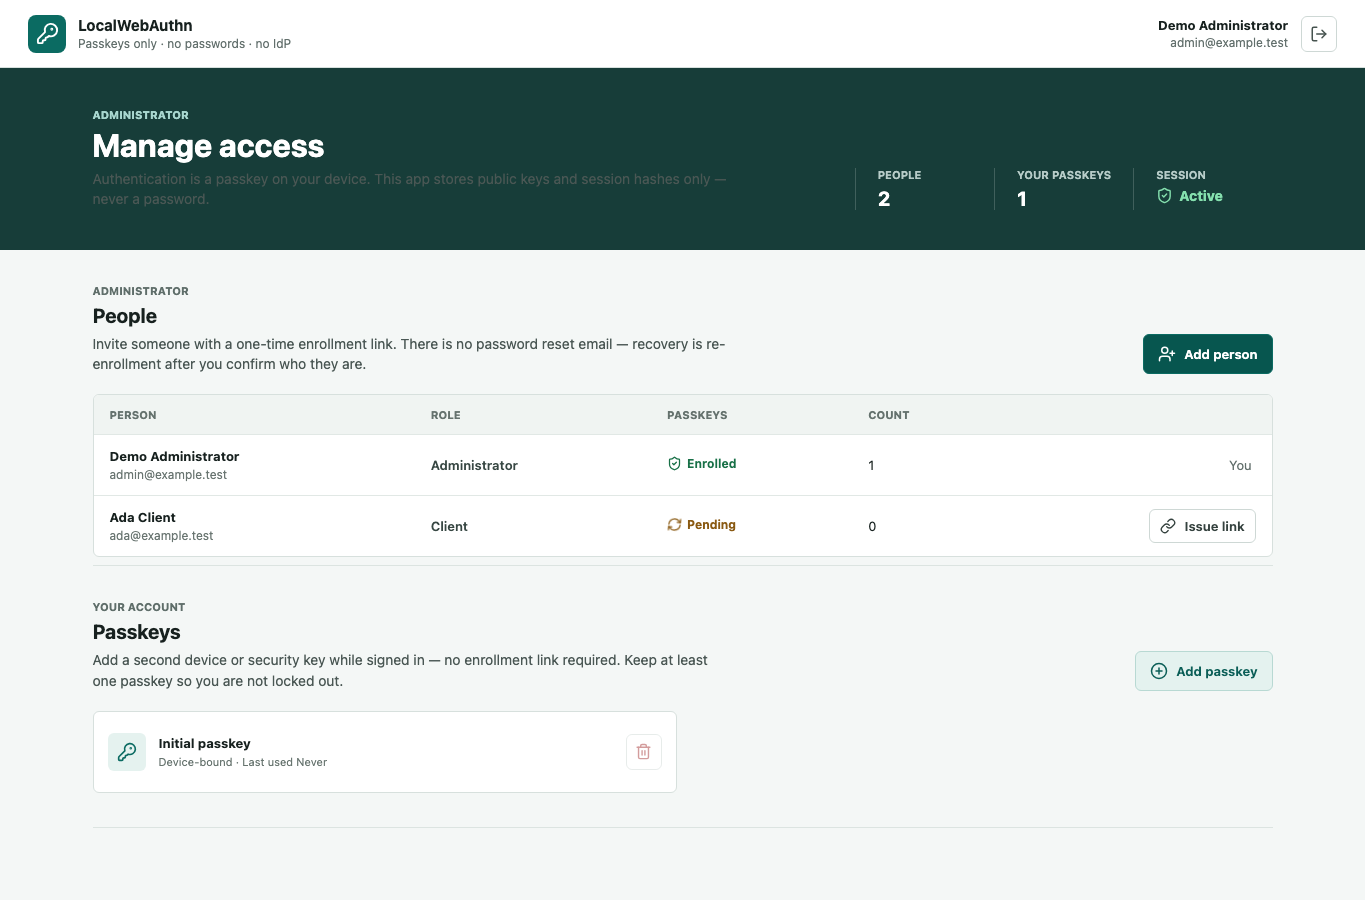
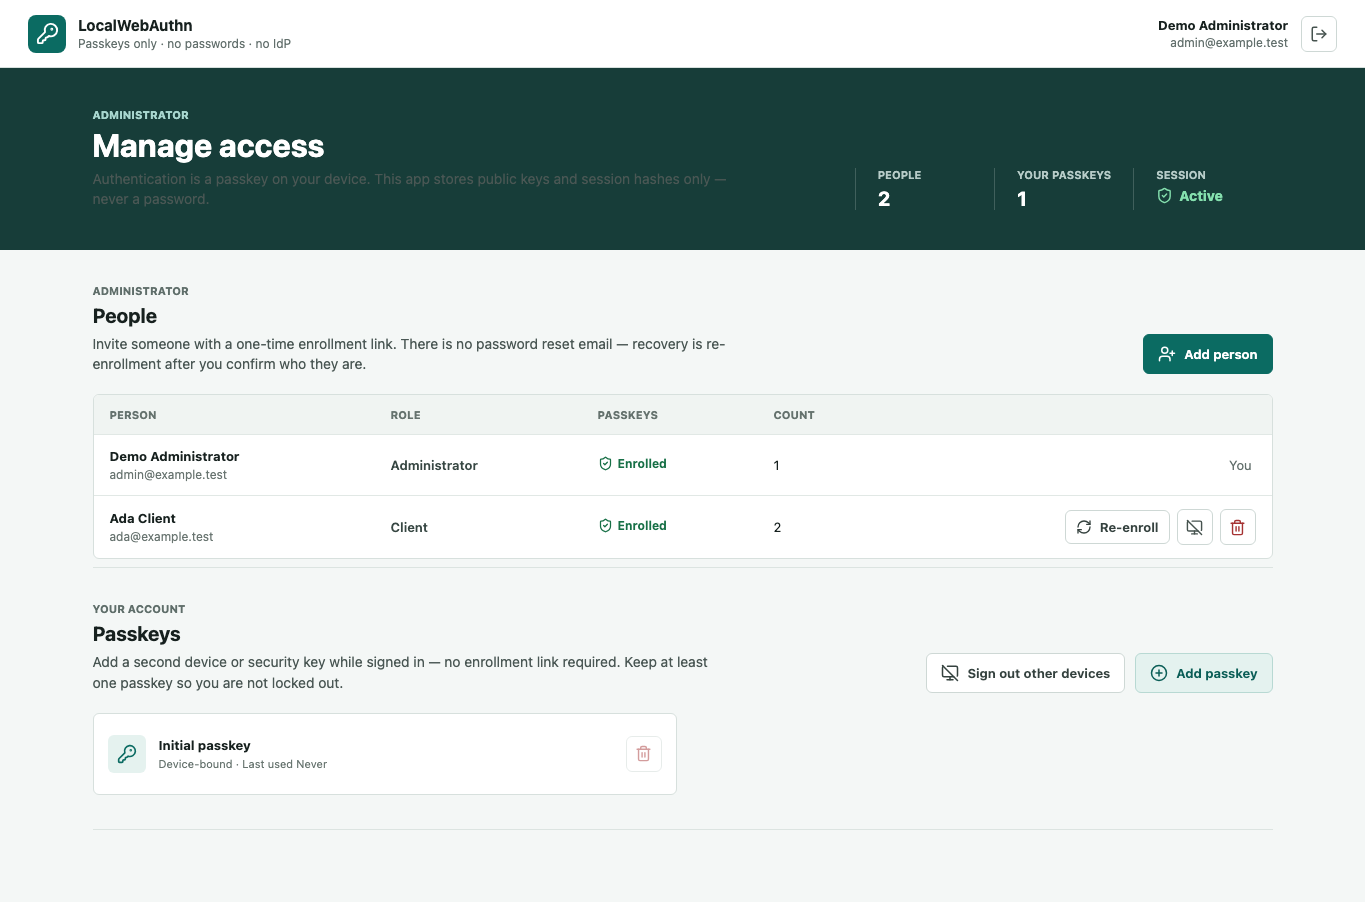
Demo: session sign-out actions and regenerated screenshots
- Admin per-person Sign out everywhere (revokeUserSessions), contrasted
  with Re-enroll: sessions end, passkeys stay valid
- Self-service Sign out other devices using exceptSessionToken
- API tests for both routes; e2e exercises admin revoke + re-login and
  the self-service path; docs/images regenerated from the updated UI

diff --git a/examples/demo/src/client.ts b/examples/demo/src/client.ts
@@ -8,6 +8,7 @@ import {
   Link,
   LockKeyhole,
   LogOut,
+  MonitorOff,
   RefreshCw,
   ShieldCheck,
   Trash2,
@@ -223,6 +224,9 @@ function clientRows(): string {
                          ${iconMarkup('refresh-cw', 16)}
                          Re-enroll
                        </button>
+                       <button class="icon-button sign-out-client" data-client-id="${escapeHtml(client.id)}" data-client-name="${escapeHtml(client.displayName)}" title="End every session; passkeys stay valid" aria-label="Sign out ${escapeHtml(client.displayName)} everywhere" type="button">
+                         ${iconMarkup('monitor-off', 17)}
+                       </button>
                        <button class="icon-button danger revoke-client" data-client-id="${escapeHtml(client.id)}" title="Revoke all passkeys without issuing a new link" aria-label="Revoke authentication for ${escapeHtml(client.displayName)}" type="button">
                          ${iconMarkup('trash-2', 17)}
                        </button>`
@@ -284,10 +288,16 @@ function passkeysSection(): string {
           <h2 id="passkeys-title">Passkeys</h2>
           <p class="section-help">Add a second device or security key while signed in — no enrollment link required. Keep at least one passkey so you are not locked out.</p>
         </div>
-        <button class="button secondary" id="add-passkey" type="button" ${state.busy ? 'disabled' : ''}>
-          ${iconMarkup('circle-plus')}
-          Add passkey
-        </button>
+        <div class="heading-actions">
+          <button class="button quiet" id="sign-out-others" type="button" ${state.busy ? 'disabled' : ''} title="End your sessions on every other device; this one stays signed in">
+            ${iconMarkup('monitor-off')}
+            Sign out other devices
+          </button>
+          <button class="button secondary" id="add-passkey" type="button" ${state.busy ? 'disabled' : ''}>
+            ${iconMarkup('circle-plus')}
+            Add passkey
+          </button>
+        </div>
       </div>
       <div class="passkey-grid">
         ${passkeys
@@ -406,6 +416,7 @@ function render(): void {
       Link,
       LockKeyhole,
       LogOut,
+      MonitorOff,
       RefreshCw,
       ShieldCheck,
       Trash2,
@@ -469,6 +480,17 @@ function bindEvents(): void {
       await auth.registerPasskey('Additional passkey');
       await refreshSession();
       state.notice = 'Additional passkey registered.';
+    });
+  });
+  document.querySelector('#sign-out-others')?.addEventListener('click', () => {
+    void perform(async () => {
+      const result = await request<{ revokedSessions: number }>('/api/session/revoke-others', {
+        method: 'POST',
+      });
+      state.notice =
+        result.revokedSessions === 0
+          ? 'No other sessions to sign out.'
+          : `Signed out ${String(result.revokedSessions)} other ${result.revokedSessions === 1 ? 'session' : 'sessions'}. Your passkeys are unchanged.`;
     });
   });
 
@@ -544,6 +566,19 @@ function bindEvents(): void {
           kind: 'recovery',
         };
         state.notice = 'Passkeys revoked and recovery enrollment issued.';
+      });
+    });
+  }
+  for (const button of document.querySelectorAll<HTMLButtonElement>('.sign-out-client')) {
+    button.addEventListener('click', () => {
+      const name = button.dataset.clientName ?? 'this person';
+      void perform(async () => {
+        const result = await request<{ revokedSessions: number }>(
+          `/api/clients/${encodeURIComponent(button.dataset.clientId ?? '')}/revoke-sessions`,
+          { method: 'POST' },
+        );
+        await refreshSession();
+        state.notice = `Ended ${String(result.revokedSessions)} ${result.revokedSessions === 1 ? 'session' : 'sessions'} for ${name}. Passkeys remain valid — no re-enrollment needed.`;
       });
     });
   }

diff --git a/examples/demo/tests/application.test.ts b/examples/demo/tests/application.test.ts
@@ -61,6 +61,24 @@ async function authenticatedClient(
   };
 }
 
+/** A second live session for an existing client (another device). */
+async function additionalSession(database: DemoDatabase, userId: string): Promise<string> {
+  const sessionToken = createOpaqueToken();
+  const now = Date.now();
+  const credential = database
+    .prepare(`SELECT id FROM localwebauthn_credentials WHERE user_id = ?`)
+    .get(userId) as { id: string };
+  database
+    .prepare(
+      `INSERT INTO localwebauthn_sessions(
+         id_hash, user_id, credential_id,
+         authenticated_at, expires_at, last_seen_at
+       ) VALUES (?, ?, ?, ?, ?, ?)`,
+    )
+    .run(await sha256(sessionToken), userId, credential.id, now, now + 60_000, now);
+  return sessionToken;
+}
+
 afterEach(() => {
   for (const database of databases.splice(0)) {
     database.close();
@@ -175,6 +193,71 @@ describe('LocalWebAuthn demo application', () => {
       }),
     });
     expect(response.status).toBe(403);
+  });
+
+  it('lets an administrator end sessions while passkeys stay valid', async () => {
+    const { app, database } = setup();
+    const administrator = await authenticatedClient(database, 'administrator');
+    const subject = await authenticatedClient(database, 'client');
+    const headers = { Cookie: administrator.cookie, Origin: publicOrigin };
+
+    // Administrator-only, like the other client actions.
+    const forbidden = await app.request(`/api/clients/${administrator.id}/revoke-sessions`, {
+      method: 'POST',
+      headers: { Cookie: subject.cookie, Origin: publicOrigin },
+    });
+    expect(forbidden.status).toBe(403);
+
+    const missing = await app.request('/api/clients/unknown-client/revoke-sessions', {
+      method: 'POST',
+      headers,
+    });
+    expect(missing.status).toBe(404);
+
+    const response = await app.request(`/api/clients/${subject.id}/revoke-sessions`, {
+      method: 'POST',
+      headers,
+    });
+    expect(response.status).toBe(200);
+    await expect(response.json()).resolves.toMatchObject({
+      revokedSessions: 1,
+      client: { passkeyCount: 1 },
+    });
+
+    // The subject's session is dead, but their passkey survived.
+    const oldSession = await app.request('/api/session', {
+      headers: { Cookie: subject.cookie, Origin: publicOrigin },
+    });
+    expect(oldSession.status).toBe(401);
+  });
+
+  it('signs out other sessions while keeping the caller signed in', async () => {
+    const { app, database } = setup();
+    const subject = await authenticatedClient(database, 'client');
+    const otherToken = await additionalSession(database, subject.id);
+
+    const unauthenticated = await app.request('/api/session/revoke-others', {
+      method: 'POST',
+      headers: { Origin: publicOrigin },
+    });
+    expect(unauthenticated.status).toBe(401);
+
+    const response = await app.request('/api/session/revoke-others', {
+      method: 'POST',
+      headers: { Cookie: subject.cookie, Origin: publicOrigin },
+    });
+    expect(response.status).toBe(200);
+    await expect(response.json()).resolves.toEqual({ revokedSessions: 1 });
+
+    // The caller's own session survives; the other device is signed out.
+    const own = await app.request('/api/session', {
+      headers: { Cookie: subject.cookie, Origin: publicOrigin },
+    });
+    expect(own.status).toBe(200);
+    const other = await app.request('/api/session', {
+      headers: { Cookie: `localwebauthn_demo_session=${otherToken}`, Origin: publicOrigin },
+    });
+    expect(other.status).toBe(401);
   });
 
   it('re-enrolls by revoking then issuing a recovery link', async () => {

diff --git a/examples/demo/e2e/lifecycle.spec.ts b/examples/demo/e2e/lifecycle.spec.ts
@@ -79,7 +79,6 @@ test('runs the bootstrap, client enrollment, and additional-passkey lifecycle', 
   const row = page.getByRole('row').filter({ hasText: 'ada@example.test' });
   await expect(row.getByText('Pending')).toBeVisible();
   await page.getByRole('button', { name: 'Dismiss enrollment URL' }).click();
-  await capture(page, 'demo-administration.png');
 
   const clientContext = await browser.newContext();
   const clientPage = await clientContext.newPage();
@@ -101,7 +100,7 @@ test('runs the bootstrap, client enrollment, and additional-passkey lifecycle', 
   await clientPage.setViewportSize({ width: 390, height: 844 });
   await capture(clientPage, 'demo-passkeys-mobile.png');
 
-  await clientPage.getByRole('button', { name: 'Sign out' }).click();
+  await clientPage.getByRole('button', { name: 'Sign out', exact: true }).click();
   await expect(clientPage.getByRole('heading', { name: 'Sign in with a passkey' })).toBeVisible();
   await clientPage.getByRole('button', { name: 'Continue with passkey' }).click();
   await expect(clientPage.getByRole('heading', { name: 'Your access' })).toBeVisible();
@@ -111,11 +110,33 @@ test('runs the bootstrap, client enrollment, and additional-passkey lifecycle', 
     await clientPage.evaluate(() => document.documentElement.scrollWidth <= window.innerWidth),
   ).toBe(true);
 
+  // Self-service sessions-only control. Registering the additional passkey
+  // opened a fresh session and left the previous one live server-side; this
+  // ends that one while the current session is excepted and stays signed in.
+  await clientPage.getByRole('button', { name: 'Sign out other devices' }).click();
+  await expect(
+    clientPage.getByText('Signed out 1 other session. Your passkeys are unchanged.'),
+  ).toBeVisible();
+  await expect(clientPage.getByRole('heading', { name: 'Your access' })).toBeVisible();
+
   // Admin list was loaded before Ada enrolled; reload session to see passkey counts.
   await page.reload();
   await expect(page.getByRole('heading', { name: 'Manage access' })).toBeVisible();
   const adaRow = page.getByRole('row').filter({ hasText: 'ada@example.test' });
   await expect(adaRow.getByText('Enrolled')).toBeVisible();
+  await capture(page, 'demo-administration.png');
+
+  // Sessions-only response first: end Ada's sessions everywhere. Her passkeys
+  // survive and she signs straight back in with the same one — contrast with
+  // the credential-destroying Re-enroll below.
+  await adaRow.getByRole('button', { name: 'Sign out Ada Client everywhere' }).click();
+  await expect(page.getByText(/Ended 1 session for Ada Client/u)).toBeVisible();
+  await expect(adaRow.getByText('Enrolled')).toBeVisible();
+
+  await clientPage.reload();
+  await expect(clientPage.getByRole('heading', { name: 'Sign in with a passkey' })).toBeVisible();
+  await clientPage.getByRole('button', { name: 'Continue with passkey' }).click();
+  await expect(clientPage.getByRole('heading', { name: 'Your access' })).toBeVisible();
 
   // Recovery: revoke-then-issue (documented order) as a single admin action.
   page.once('dialog', (dialog) => dialog.accept());

diff --git a/examples/demo/src/application.ts b/examples/demo/src/application.ts
@@ -10,6 +10,7 @@ import type { DemoClient, DemoDatabase } from './database';
 
 import {
   createDemoAuthentication,
+  currentSessionToken,
   mountAuthenticationRoutes,
   requireAuthentication,
   requireExpectedOrigin,
@@ -260,6 +261,40 @@ export function createDemoApplication(database: DemoDatabase, options: DemoAppli
       });
     },
   );
+
+  /**
+   * Sessions-only response for when a session, not a passkey, is the problem
+   * (stolen laptop, suspected cookie theft). Contrast with Re-enroll: the
+   * person's passkeys stay valid and they simply sign in again.
+   */
+  app.post(
+    '/api/clients/:clientId/revoke-sessions',
+    authenticated,
+    administrator,
+    async (context) => {
+      const client = clientById(database, context.req.param('clientId'));
+      if (!client) {
+        return context.json(
+          { error: 'client_not_found', message: 'The client was not found.' },
+          404,
+        );
+      }
+      const revokedSessions = await authentication.revokeUserSessions(client.id);
+      return context.json({
+        client: await clientPayload(client, authentication),
+        revokedSessions,
+      });
+    },
+  );
+
+  /** Self-service "sign out my other devices": the calling session survives. */
+  app.post('/api/session/revoke-others', authenticated, async (context) => {
+    const revokedSessions = await authentication.revokeUserSessions(
+      context.get('authenticatedUser').id,
+      { exceptSessionToken: currentSessionToken(context) },
+    );
+    return context.json({ revokedSessions });
+  });
 
   app.post('/api/passkeys/:credentialId/revoke', authenticated, async (context) => {
     const userId = context.get('authenticatedUser').id;

diff --git a/examples/demo/src/auth.ts b/examples/demo/src/auth.ts
@@ -130,6 +130,14 @@ export function requireExpectedOrigin(config: DemoAuthConfig): MiddlewareHandler
   };
 }
 
+/**
+ * Raw session token from the request cookie, for routes that act on the
+ * caller's own session (e.g. "sign out my other devices").
+ */
+export function currentSessionToken(context: Context<DemoEnvironment>): string | undefined {
+  return getCookie(context, SESSION_COOKIE);
+}
+
 export function requireAuthentication(
   authentication: DemoAuthentication,
 ): MiddlewareHandler<DemoEnvironment> {

diff --git a/examples/demo/src/styles.css b/examples/demo/src/styles.css
@@ -424,6 +424,13 @@ svg {
   margin-bottom: 20px;
 }
 
+.heading-actions {
+  display: flex;
+  flex-wrap: wrap;
+  align-items: center;
+  gap: 10px;
+}
+
 .section-heading h2,
 .enrollment-callout h2,
 .dialog-heading h2 {
@@ -738,6 +745,11 @@ dialog label {
 
   .section-heading .button {
     width: 100%;
+  }
+
+  .heading-actions {
+    flex-direction: column;
+    align-items: stretch;
   }
 
   .enrollment-link-row {

diff --git a/examples/demo/README.md b/examples/demo/README.md
@@ -21,6 +21,7 @@ How this positions against ceremony libraries, auth frameworks, and IdPs:
 | ---------------------------- | -------------------------------------------------------- |
 | Password signup / login      | Passkey create + continue                                |
 | "Forgot password" email      | Administrator **Re-enroll** (revoke, then one-time link) |
+| "Stolen laptop" panic reset  | **Sign out everywhere** — sessions end, passkeys survive |
 | Auth0 / Clerk / OIDC         | Auth runs in this process; users live in `demo_clients`  |
 | Self-serve open registration | Invitation URLs printed or copied by an administrator    |
 
@@ -46,7 +47,10 @@ http://localhost:4173/enroll#token=...
 2. Use **Add person** to invite someone; copy the enrollment URL.
 3. Open the URL in another browser profile or device; create their passkey.
 4. While signed in, **Add passkey** registers another device (no new link).
-5. **Re-enroll** revokes their passkeys and issues a recovery link (the
+5. **Sign out other devices** (your account) and the per-person **Sign out**
+   action end sessions only — passkeys stay valid and the person just signs in
+   again. Use these when a session, not a credential, is the problem.
+6. **Re-enroll** revokes their passkeys and issues a recovery link (the
    documented recovery order).
 
 `make demo-reset` removes only `examples/demo/.data/localwebauthn-demo.db`.
@@ -60,7 +64,7 @@ Visiting `/` without a passkey shows sign-in help pointing at the enrollment URL
 | ----------------------- | ------------------------------------------------------------- |
 | `src/database.ts`       | App-owned `demo_clients` + package SQLite migration           |
 | `src/auth.ts`           | Complete Hono adapter: origin check, cookies, six auth routes |
-| `src/application.ts`    | Bootstrap, invite, re-enroll, revoke, list passkeys           |
+| `src/application.ts`    | Bootstrap, invite, re-enroll, revoke, session sign-out        |
 | `src/client.ts`         | UI via `LocalWebAuthnBrowser` (no raw WebAuthn calls)         |
 | `e2e/lifecycle.spec.ts` | Playwright + Chromium virtual passkeys                        |
 

diff --git a/docs/DEMO.md b/docs/DEMO.md
@@ -28,8 +28,8 @@ The command resets its isolated database and replaces:
 - `docs/images/demo-passkeys-mobile.png`
 
 Enrollment fragments are consumed before Playwright captures a page. The administration
-screenshot dismisses the newly issued client link first, so committed screenshots contain
-no live bearer tokens.
+screenshot is taken after the issued link is dismissed and the client has enrolled, so
+committed screenshots contain no live bearer tokens.
 
 ## Recreate The Terminal Recording
 

diff --git a/README.md b/README.md
@@ -47,7 +47,7 @@ Administrator enrollment:
 
 ![Administrator enrollment](docs/images/demo-enrollment.png)
 
-Client creation, enrollment, passkey counts, and revocation:
+Client creation, enrollment, passkey counts, session sign-out, and revocation:
 
 ![Client and enrollment management](docs/images/demo-administration.png)
 
